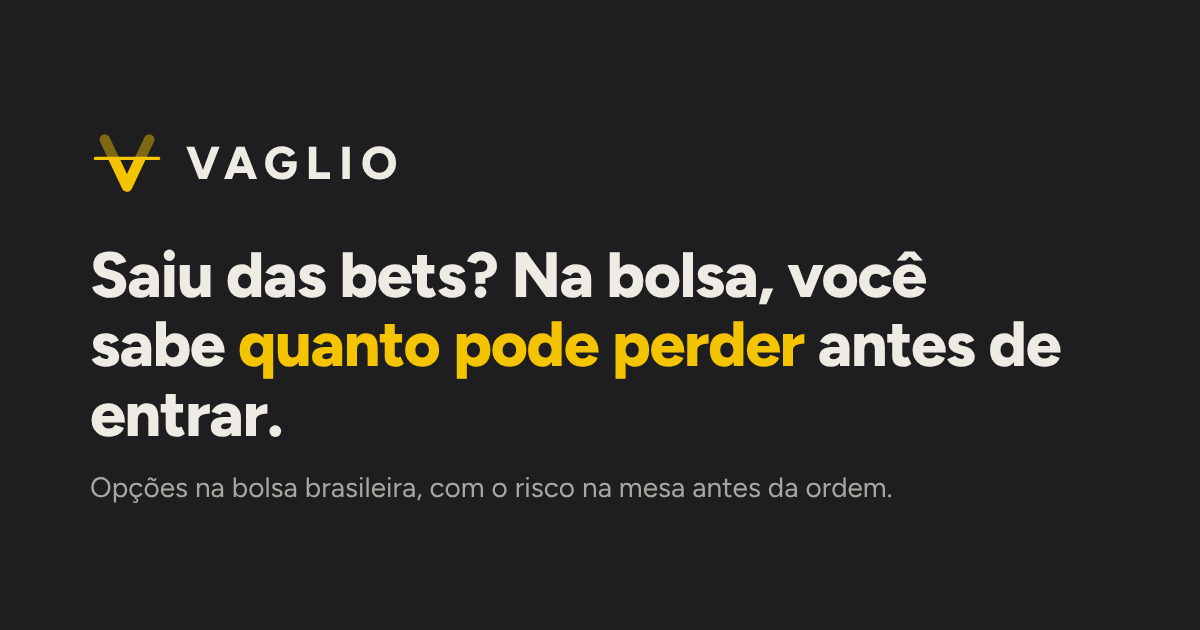
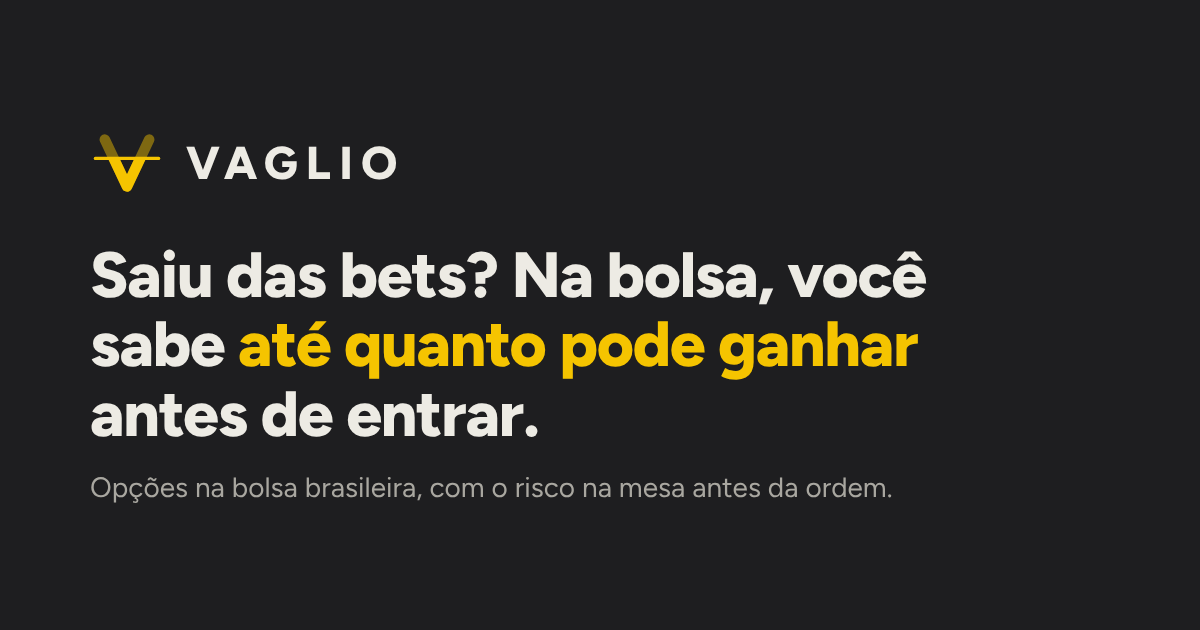
LP (prévia): título pelo ganho ("até quanto pode ganhar"); o risco continua no texto, na tabela e nos números
Claude-Session: https://claude.ai/code/session_01MpnSpo8GG6mFAeaVMeYZNc

Changed region(s): [[0.0617, 0.5127, 0.8942, 0.6937]]

diff --git a/lp/index.html b/lp/index.html
@@ -3,12 +3,12 @@
 <head>
 <meta charset="utf-8">
 <meta name="viewport" content="width=device-width,initial-scale=1,viewport-fit=cover">
-<title>Vaglio · Saiu das bets? Na bolsa, você sabe o risco antes</title>
-<meta name="description" content="As bets foram proibidas. Na bolsa brasileira, com o Vaglio, você monta operações com opções sabendo antes quanto custa, quanto pode perder no máximo e o que acontece em cada cenário.">
+<title>Vaglio · Saiu das bets? Na bolsa, você sabe até quanto pode ganhar</title>
+<meta name="description" content="As bets foram proibidas. Na bolsa brasileira, com o Vaglio, você monta operações com opções sabendo antes até quanto pode ganhar, quanto custa, o risco máximo e o que acontece em cada cenário.">
 <meta name="theme-color" content="#1E1E20">
 <link rel="icon" href="favicon.svg" type="image/svg+xml">
 <meta property="og:type" content="website">
-<meta property="og:title" content="Saiu das bets? Na bolsa, você sabe quanto pode perder antes de entrar.">
+<meta property="og:title" content="Saiu das bets? Na bolsa, você sabe até quanto pode ganhar antes de entrar.">
 <meta property="og:description" content="Antes da ordem, o risco na mesa: custo, perda máxima, ponto de equilíbrio e cenários de cada operação com opções.">
 <meta property="og:image" content="img/compartilhar.png">
 <meta name="twitter:card" content="summary_large_image">
@@ -118,8 +118,8 @@ footer nav{display:flex;gap:18px;flex-wrap:wrap;margin-top:14px}
 <div class="hero"><div class="wrap">
   <div>
     <span class="chip">As bets foram proibidas. E agora?</span>
-    <h1>Saiu das bets? Na bolsa, você sabe <em>quanto pode perder</em> antes de entrar.</h1>
-    <p class="lead">Com o Vaglio, você monta operações com opções de ações na bolsa brasileira, um mercado regulado pela CVM, com preço formado entre investidores. Antes da ordem, a tela mostra o custo, a perda máxima em reais, a partir de que preço você ganha e o que acontece em cada cenário.</p>
+    <h1>Saiu das bets? Na bolsa, você sabe <em>até quanto pode ganhar</em> antes de entrar.</h1>
+    <p class="lead">Com o Vaglio, você monta operações com opções de ações na bolsa brasileira, um mercado regulado pela CVM, com preço formado entre investidores. Antes da ordem, a tela mostra o ganho máximo, a partir de que preço você ganha, o custo, o risco máximo em reais e o que acontece em cada cenário.</p>
     <div class="ctas">
       <a class="btn pri" data-cta href="#instalar">Baixar o app</a>
       <a class="btn sec" data-web href="#">Usar no navegador</a>
@@ -131,12 +131,13 @@ footer nav{display:flex;gap:18px;flex-wrap:wrap;margin-top:14px}
 
 <section id="diferenca"><div class="wrap">
   <h2>Bet é uma coisa. Bolsa é outra.</h2>
-  <p class="sub">Opções não são aposta: são contratos negociados na bolsa. Dá para perder dinheiro, e é por isso que o Vaglio mostra o tamanho da perda antes.</p>
+  <p class="sub">Opções não são aposta: são contratos negociados na bolsa. Antes de entrar, o Vaglio mostra até quanto você pode ganhar e quanto pode perder.</p>
   <table class="tab">
     <thead><tr><th></th><th>Bets</th><th>Opções com o Vaglio</th></tr></thead>
     <tbody>
       <tr><td>Situação</td><td>Proibidas no Brasil em 2026</td><td>Bolsa brasileira, regulada pela CVM</td></tr>
       <tr><td>Quem define o preço</td><td>A casa, com a margem dela na odd</td><td>Compradores e vendedores, na bolsa</td></tr>
+      <tr><td>Quanto você pode ganhar</td><td>A odd vezes o valor apostado</td><td>O ganho máximo aparece em reais antes da ordem, com o preço a partir do qual você ganha</td></tr>
       <tr><td>Quanto você pode perder</td><td>Tudo o que apostou, a cada aposta</td><td>A perda máxima aparece em reais antes da ordem, dentro do limite que você define</td></tr>
       <tr><td>O que você vê antes</td><td>A odd</td><td>Custo, ponto de equilíbrio, cenários e a chance que o próprio preço indica</td></tr>
       <tr><td>Onde fica o seu dinheiro</td><td>Na casa de apostas</td><td>Na sua conta, numa corretora, em seu nome</td></tr>
@@ -178,7 +179,7 @@ footer nav{display:flex;gap:18px;flex-wrap:wrap;margin-top:14px}
   <p class="sub">Ninguém aqui vende ganho garantido. O Vaglio mostra os números da operação e deixa a decisão com você. Não recomenda ativo, direção nem momento.</p>
   <div class="grade">
     <div class="card"><div class="num">22.532</div><h3>operações conferidas</h3><p>Simulamos as operações do app de 2015 a 2026. A chance mostrada na tela bateu com o que aconteceu, com diferença de poucos pontos.</p></div>
-    <div class="card"><div class="num">R$</div><h3>Risco em reais, antes da ordem</h3><p>Toda operação vem com a perda máxima em reais, dentro do limite que você definiu, e a estimativa das taxas da bolsa e da sua corretagem.</p></div>
+    <div class="card"><div class="num">R$</div><h3>Ganho e risco em reais, antes da ordem</h3><p>Toda operação vem com o ganho máximo e a perda máxima em reais, dentro do limite de risco que você definiu, e a estimativa das taxas da bolsa e da sua corretagem.</p></div>
     <div class="card"><div class="num">D+1</div><h3>Desempenho sem maquiagem</h3><p>Quando uma regra de saída é atingida no fechamento, o resultado conta no pregão seguinte, que é quando dá para agir na corretora.</p></div>
   </div>
 </div></section>
